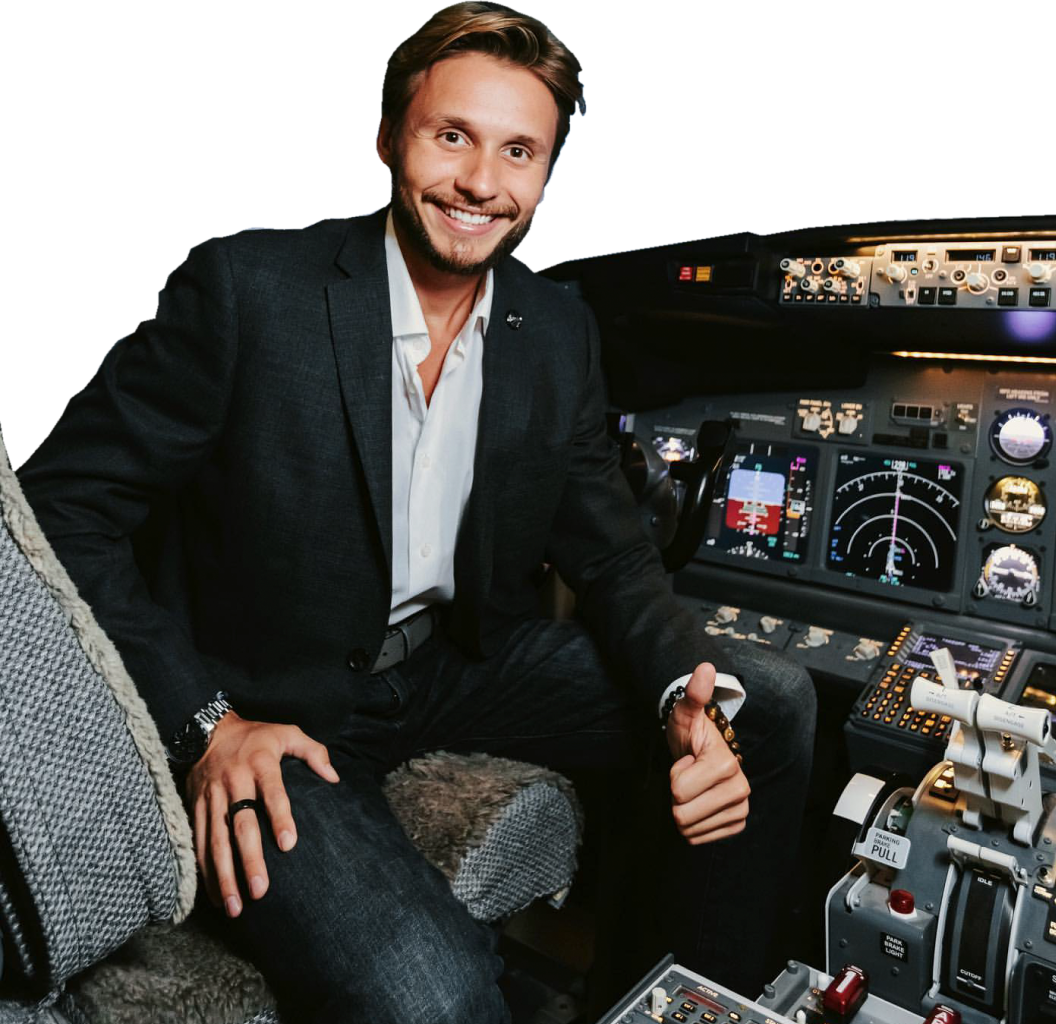
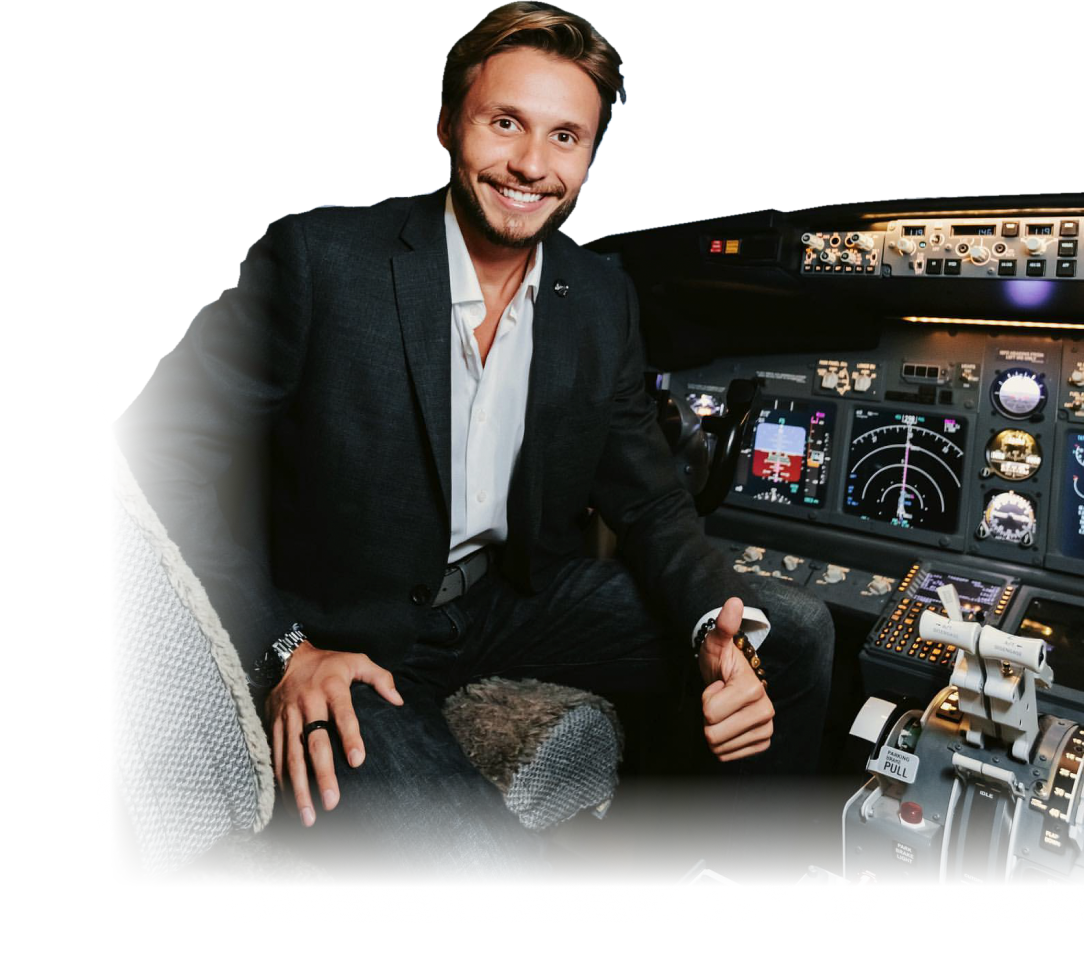
Добавила градиент к фотке пилота и добавила ссылки в header.

diff --git a/index.html b/index.html
@@ -27,12 +27,12 @@
                 <nav class="header__navigation">
                     <div class="header__navigation-with-paddings">
                         <img src="assets/icons/tft-icon.png" alt="Логотип компании TFT aero" class="header__logo">
-                        <p class="navigation__choice">ЧТО ТАКОЕ АВИАТРЕНАЖЁР?</p>
-                        <p class="navigation__choice">ГДЕ ЛЕТАТЬ?</p>
-                        <p class="navigation__choice">ЦЕНЫ</p>
-                        <p class="navigation__choice">ОТЗЫВЫ</p>
-                        <p class="navigation__choice">ИНСТРУКТОРА</p>
-                        <p class="navigation__choice">КОНТАКТЫ</p>
+                        <p class="navigation__choice"><a href="http://" class="navigation__choice">ЧТО ТАКОЕ АВИАТРЕНАЖЁР?</a></p>
+                        <p class="navigation__choice"><a href="http://" class="navigation__choice">ГДЕ ЛЕТАТЬ?</a></p>
+                        <p class="navigation__choice"><a href="http://" class="navigation__choice">ЦЕНЫ</a></p>
+                        <p class="navigation__choice"><a href="http://" class="navigation__choice">ОТЗЫВЫ</a></p>
+                        <p class="navigation__choice"><a href="http://" class="navigation__choice">ИНСТРУКТОРА</a></p>
+                        <p class="navigation__choice"><a href="http://" class="navigation__choice">КОНТАКТЫ</a></p>
                         <div class="header__address">
                             <p>МОСКВА, АВТОЗАВОДСКАЯ УЛИЦА, Д. 18Б<br>ТРЦ РИВЬЕРА, 3 ЭТАЖ</p>
                             <p class="header__phone"><a href="tel:+74952284708"><img src="assets/icons/phone-icon.png" alt="Кнопка вызова"></a>+7 (495) 228-47-08</p>
@@ -51,7 +51,7 @@
                         <p class="header__title-fourth-word">БОИНГОМ?</p>
                     </div>
     
-                    <img src="assets/images/pilot.png" alt="Picture of the pilot" class="header-mobile__picture">
+                    <img src="assets/images/mobile-pilot.png" alt="Picture of the pilot" class="header-mobile__picture">
     
                     <div class="mobile-header__title">
                         <div class="mobile-header__first-column">

diff --git a/style.css b/style.css
@@ -16,6 +16,11 @@
             color: white;
             font-family: 'Gilroy', Arial, sans-serif;
         }
+
+        .navigation__choice {
+            color: white;
+            text-decoration: none;
+        }
     
     @media (min-width: 1440px) and (max-width: 1920px) {
         .header__navigation {
@@ -254,7 +259,7 @@
         .header__picture {
             position: absolute;
             right: -5px;
-            top: -100px;
+            top: -70px;
             width: 60%;
             z-index: 0;
         }
@@ -1348,7 +1353,7 @@
     } */
 
     /* 6 блок - Чем отличается Boeing от Airbus? */
-    .bl6 {
+    /* .bl6 {
         font-size: 48px;
         color: #03008D;}
     .block6 {
@@ -1393,17 +1398,17 @@
         padding-bottom: 238px;
         grid-area: text6;
     }
-    /* p {width: 75vh;
+    p {width: 75vh;
         line-height: 29px;}
     ul {
         list-style-image: url("img/Rectangle\ 36\ \(1\).png");
     }
     li {
         margin-bottom: 0.5em;
-    } */
+    }
     .list2 {
         direction: rtl;
-        float: left;}
+        float: left;} */
 
     /* 7 блок - Отзывы наших гостей */
     .block7 {
